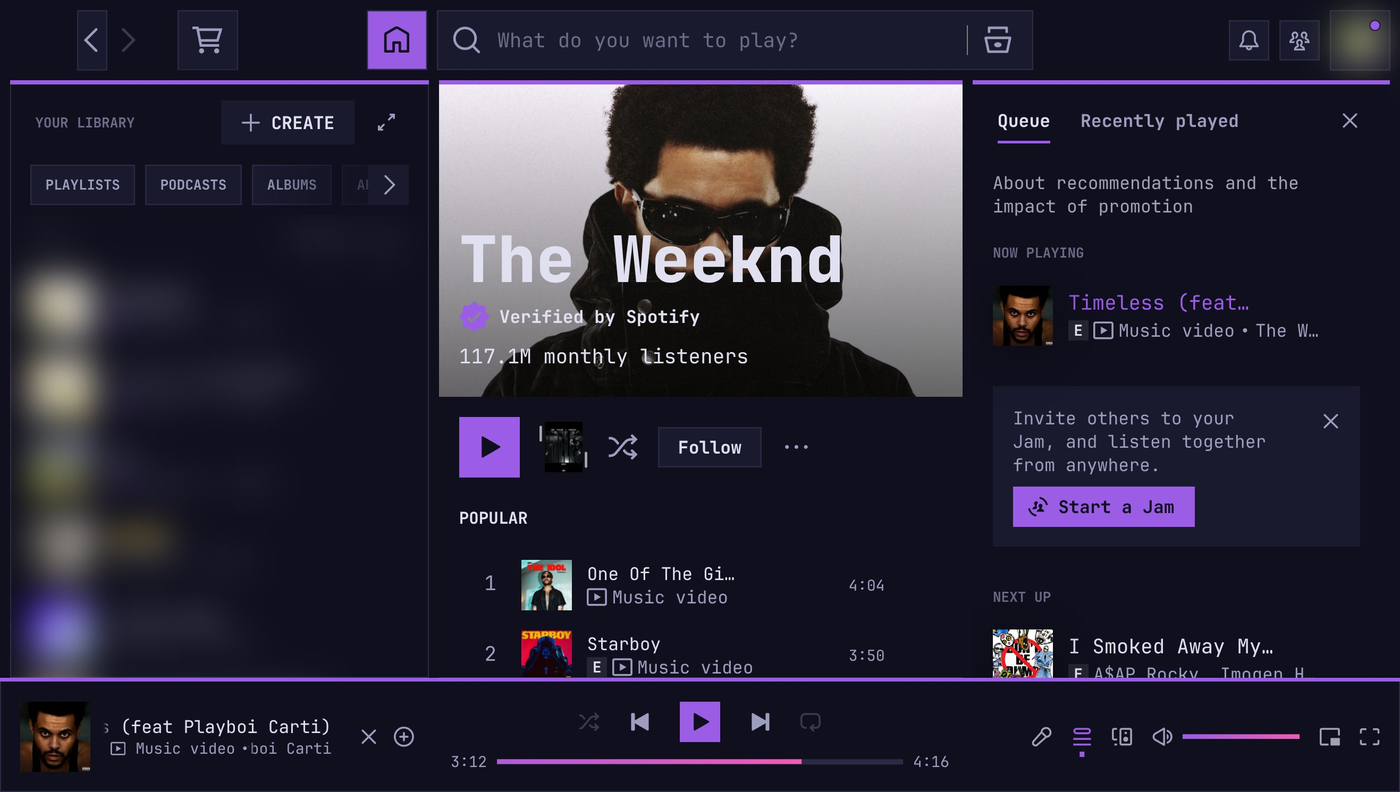
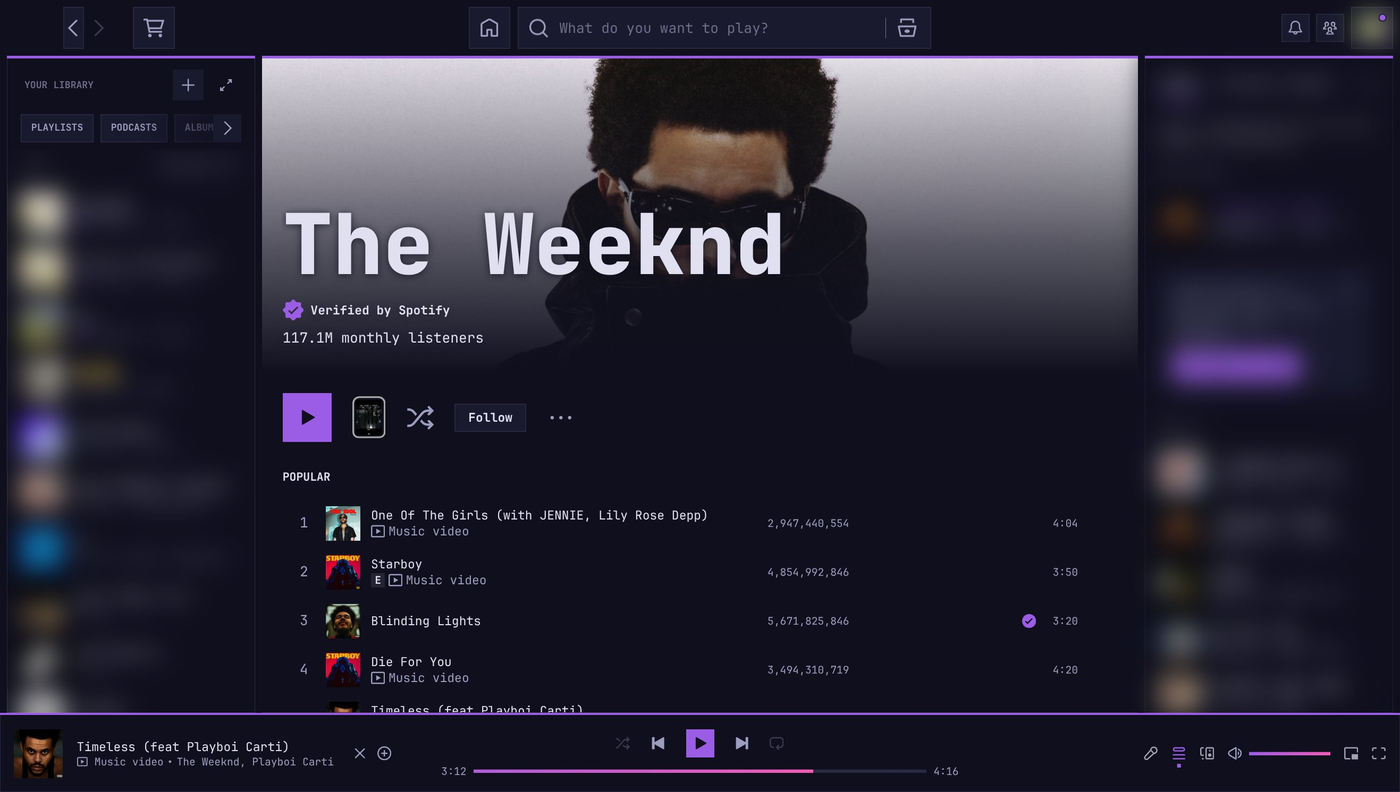
fix(spotify): keep hero titles readable and listen counts on the palette
Hero photos now fade into the page background, so the title stays readable
on bright images. Spotify's inline green listen count uses accent2. Adds the
README screenshots, with the library and queue blurred.

diff --git a/deckskin_spotify.py b/deckskin_spotify.py
@@ -139,6 +139,7 @@ main > div > [style*="background-color"], [class*="actionBarBackground-backgroun
 .main-trackList-active { box-shadow: inset 3px 0 0 var(--deck-accent); }
 .main-trackList-active .main-trackList-rowTitle, .main-trackList-active .main-trackList-rowTitle * { color: var(--deck-accent) !important; }
 img[src*="equaliser"] { filter: $eq; }
+.main-trackList-rowMainContent [style*="color: rgb"] { color: var(--deck-accent2) !important; }
 
 /* The mono font runs wider than Spotify's, so rows step down a size to keep titles readable */
 .main-trackList-rowTitle, .main-trackList-rowTitle *, .Root__nav-bar [data-encore-id="listRowTitle"], .Root__nav-bar [data-encore-id="listRowTitle"] * { font-size: 14px !important; }
@@ -164,6 +165,12 @@ img[src*="equaliser"] { filter: $eq; }
 }
 .main-entityHeader-image, .main-entityHeader-imagePlaceholder { box-shadow: none !important; outline: 1px solid var(--deck-line); }
 .main-entityHeader-metaData *, .main-entityHeader-subtitle { color: var(--deck-sub) !important; }
+/* Hero photos fade into the page, so the title stays readable on a bright image */
+[data-testid="background-image"] + * {
+  background-image: linear-gradient(to bottom, color-mix(in srgb, var(--deck-bg) 10%, transparent),
+    color-mix(in srgb, var(--deck-bg) 70%, transparent) 60%, var(--deck-bg)) !important;
+}
+.main-entityHeader-headerText { text-shadow: 0 1px 10px color-mix(in srgb, var(--deck-bg) 80%, transparent); }
 
 /* ── player ── */
 .main-nowPlayingBar-container { padding-top: 3px; }
